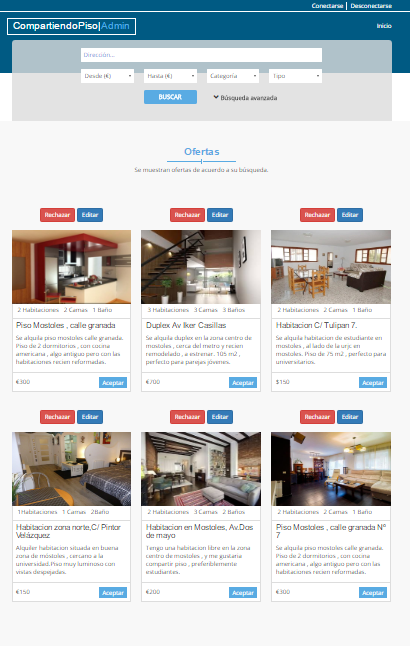
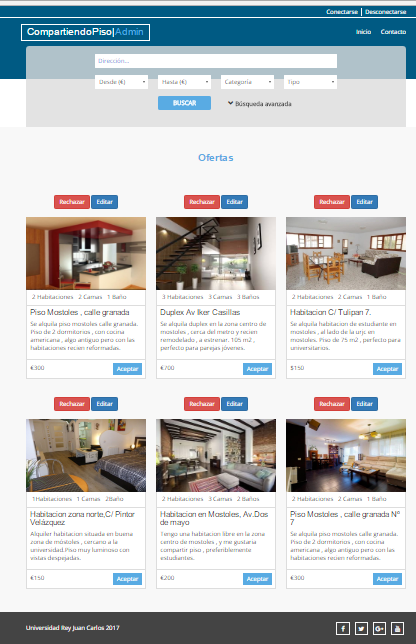
Actualización imagen admin

diff --git a/admin.html b/admin.html
@@ -4,10 +4,10 @@
     <meta charset="utf-8">
     <meta http-equiv="X-UA-Compatible" content="IE=edge">
     <meta name="viewport" content="width=device-width, initial-scale=1">    
-    <title>Home Property | Properties</title>
+    <title>compartiendoPiso | Admin</title>
 
     <!-- Favicon -->
-    <link rel="shortcut icon" href="img/favicon.ico" type="image/x-icon">
+    <link rel="shortcut icon" href="img/logo.jpg" type="image/x-icon">
     
     
     <!-- Font awesome -->
@@ -27,15 +27,6 @@
     <link href='https://fonts.googleapis.com/css?family=Vollkorn' rel='stylesheet' type='text/css'>    
     <link href='https://fonts.googleapis.com/css?family=Open+Sans' rel='stylesheet' type='text/css'>
     
-
-    <!-- HTML5 shim and Respond.js for IE8 support of HTML5 elements and media queries -->
-    <!-- WARNING: Respond.js doesn't work if you view the page via file:// -->
-    <!--[if lt IE 9]>
-      <script src="https://oss.maxcdn.com/html5shiv/3.7.2/html5shiv.min.js"></script>
-      <script src="https://oss.maxcdn.com/respond/1.4.2/respond.min.js"></script>
-    <![endif]-->
-  
-
   </head>
   <body>   
   <!-- Pre Loader -->
@@ -92,20 +83,12 @@
           </button>
           <!-- LOGO -->                                               
           <!-- Text based logo -->
-          <a class="navbar-brand aa-logo" href="#">CompartiendoPiso|<span>Admin</span></a>
-          <!-- Image based logo -->
-          <!-- <a class="navbar-brand aa-logo-img" href="index.html"><img src="img/logo.png" alt="logo"></a> -->                     
+          <a class="navbar-brand aa-logo" href="#">CompartiendoPiso|<span>Admin</span></a>                    
         </div>
         <div id="navbar" class="navbar-collapse collapse">
           <ul id="top-menu" class="nav navbar-nav navbar-right aa-main-nav">
             <li><a href="index.html">Inicio</a></li>
-             <!--li class="dropdown active">
-              <a class="dropdown-toggle" data-toggle="dropdown" href="properties.html">PROPERTIES <span class="caret"></span></a>
-              <ul class="dropdown-menu" role="menu">                
-                <li><a href="properties.html">PROPERTIES</a></li>
-                <li><a href="properties-detail.html">PROPERTIES DETAIL</a></li>                                            
-              </ul>
-            </li-->            
+            <li><a href="contact.html">Contacto</a></li>        
           </ul>                           
         </div><!--/.nav-collapse -->       
       </div>          
@@ -113,8 +96,7 @@
   </section>
   <!-- End menu section -->
 
-  <!-- Start Proerty header  -->
-
+  <!-- Start Property header  -->
   <section id="aa-user" class="user-admin" >
     <div class="container">
       <div class="row">
@@ -122,8 +104,6 @@
           <div class="aa-property-header-inner">
             <h2></h2>
             <ol class="breadcrumb">
-            <!--li><a href="#"></a></li>            
-            <li class="active"></li-->
           </ol>
           </div>
         </div>
@@ -298,9 +278,7 @@
     <div class="container">
       <div class="aa-latest-property-area">
         <div class="aa-title">
-          <h2>Ofertas</h2>
-          <span></span>
-          <p>Se muestran ofertas de acuerdo a su búsqueda.</p>         
+          <h2>Ofertas</h2>       
         </div>
         <div class="aa-latest-properties-content">
           <div class="row">
@@ -504,63 +482,6 @@
     </div>
   </section>
   <!-- / Latest property -->
-    <!-- Client Latest property -->
-  <section id="aa-latest-property">
-    <div class="container">
-      <div class="aa-latest-property-area">
-        <div class="aa-title">
-          <h2>Usuarios</h2>
-          <span></span>
-          <p>Se muestran usuarios de acuerdo a su búsqueda.</p>         
-        </div>
-        <div class="aa-latest-properties-content">
-          <div class="row">
-           <div class="col-md-12 col-md-offset-2">
-            <div class="col-md-3">
-               <div class="media-left">    
-                 <a href="user.html"><img alt="img" src="img/users/perfil1.jpg" class="media-object news-img img-circle"  width="150" height="150"></a>      
-               </div>
-            </div>
-            <div class="col-md-3">
-             <div class="media-left">    
-                 <a href="user.html"><img alt="img" src="img/users/perfil2.jpg" class="media-object news-img img-circle" width="150" height="150"></a>      
-               </div>
-            </div>
-            <div class="col-md-3">
-              <div class="media-left">    
-                  <a href="user.html"><img alt="img" src="img/users/perfil3.jpg" class="media-object news-img img-circle" width="150" height="150"></a>   
-               </div>
-            </div>
-          </div>
-         </div>
-         <br>
-         <div class="row">
-            <div class="col-md-12 col-md-offset-2">
-            <div class="col-md-3">
-              <div class="media-left">    
-                  <a href="user.html"><img alt="img" src="img/users/perfil4.jpg" class="media-object news-img img-circle" width="150" height="150"></a>      
-               </div>
-            </div>
-            <div class="col-md-3">
-              <div class="media-left">    
-                  <a href="user.html"><img alt="img" src="img/users/perfil5.jpg" class="media-object news-img img-circle" width="150" height="150"></a>      
-               </div>
-            </div>
-            <div class="col-md-3">
-             <div class="media-left">    
-                 <a href="user.html"><img alt="img" src="img/users/perfil6.jpg" class="media-object news-img img-circle" width="150" height="150"></a>  
-               </div>
-            </div>
-          </div>
-        </div>
-       </div>
-      </div>
-    </div>
-  </section>
-  <!-- / Latest property -->
-  
-  
- 
 
   <!-- Footer -->
   <footer id="aa-footer">
@@ -590,7 +511,6 @@
   </footer>
   <!-- / Footer -->
 
-
   <!-- jQuery library -->
   <!--   <script src="https://ajax.googleapis.com/ajax/libs/jquery/1.11.3/jquery.min.js"></script> -->
   <script src="js/jquery.min.js"></script>   
@@ -603,9 +523,6 @@
   
   <!-- Custom js -->
   <script src="js/custom.js"></script> 
-
-
-
 
   </body>
 </html>
